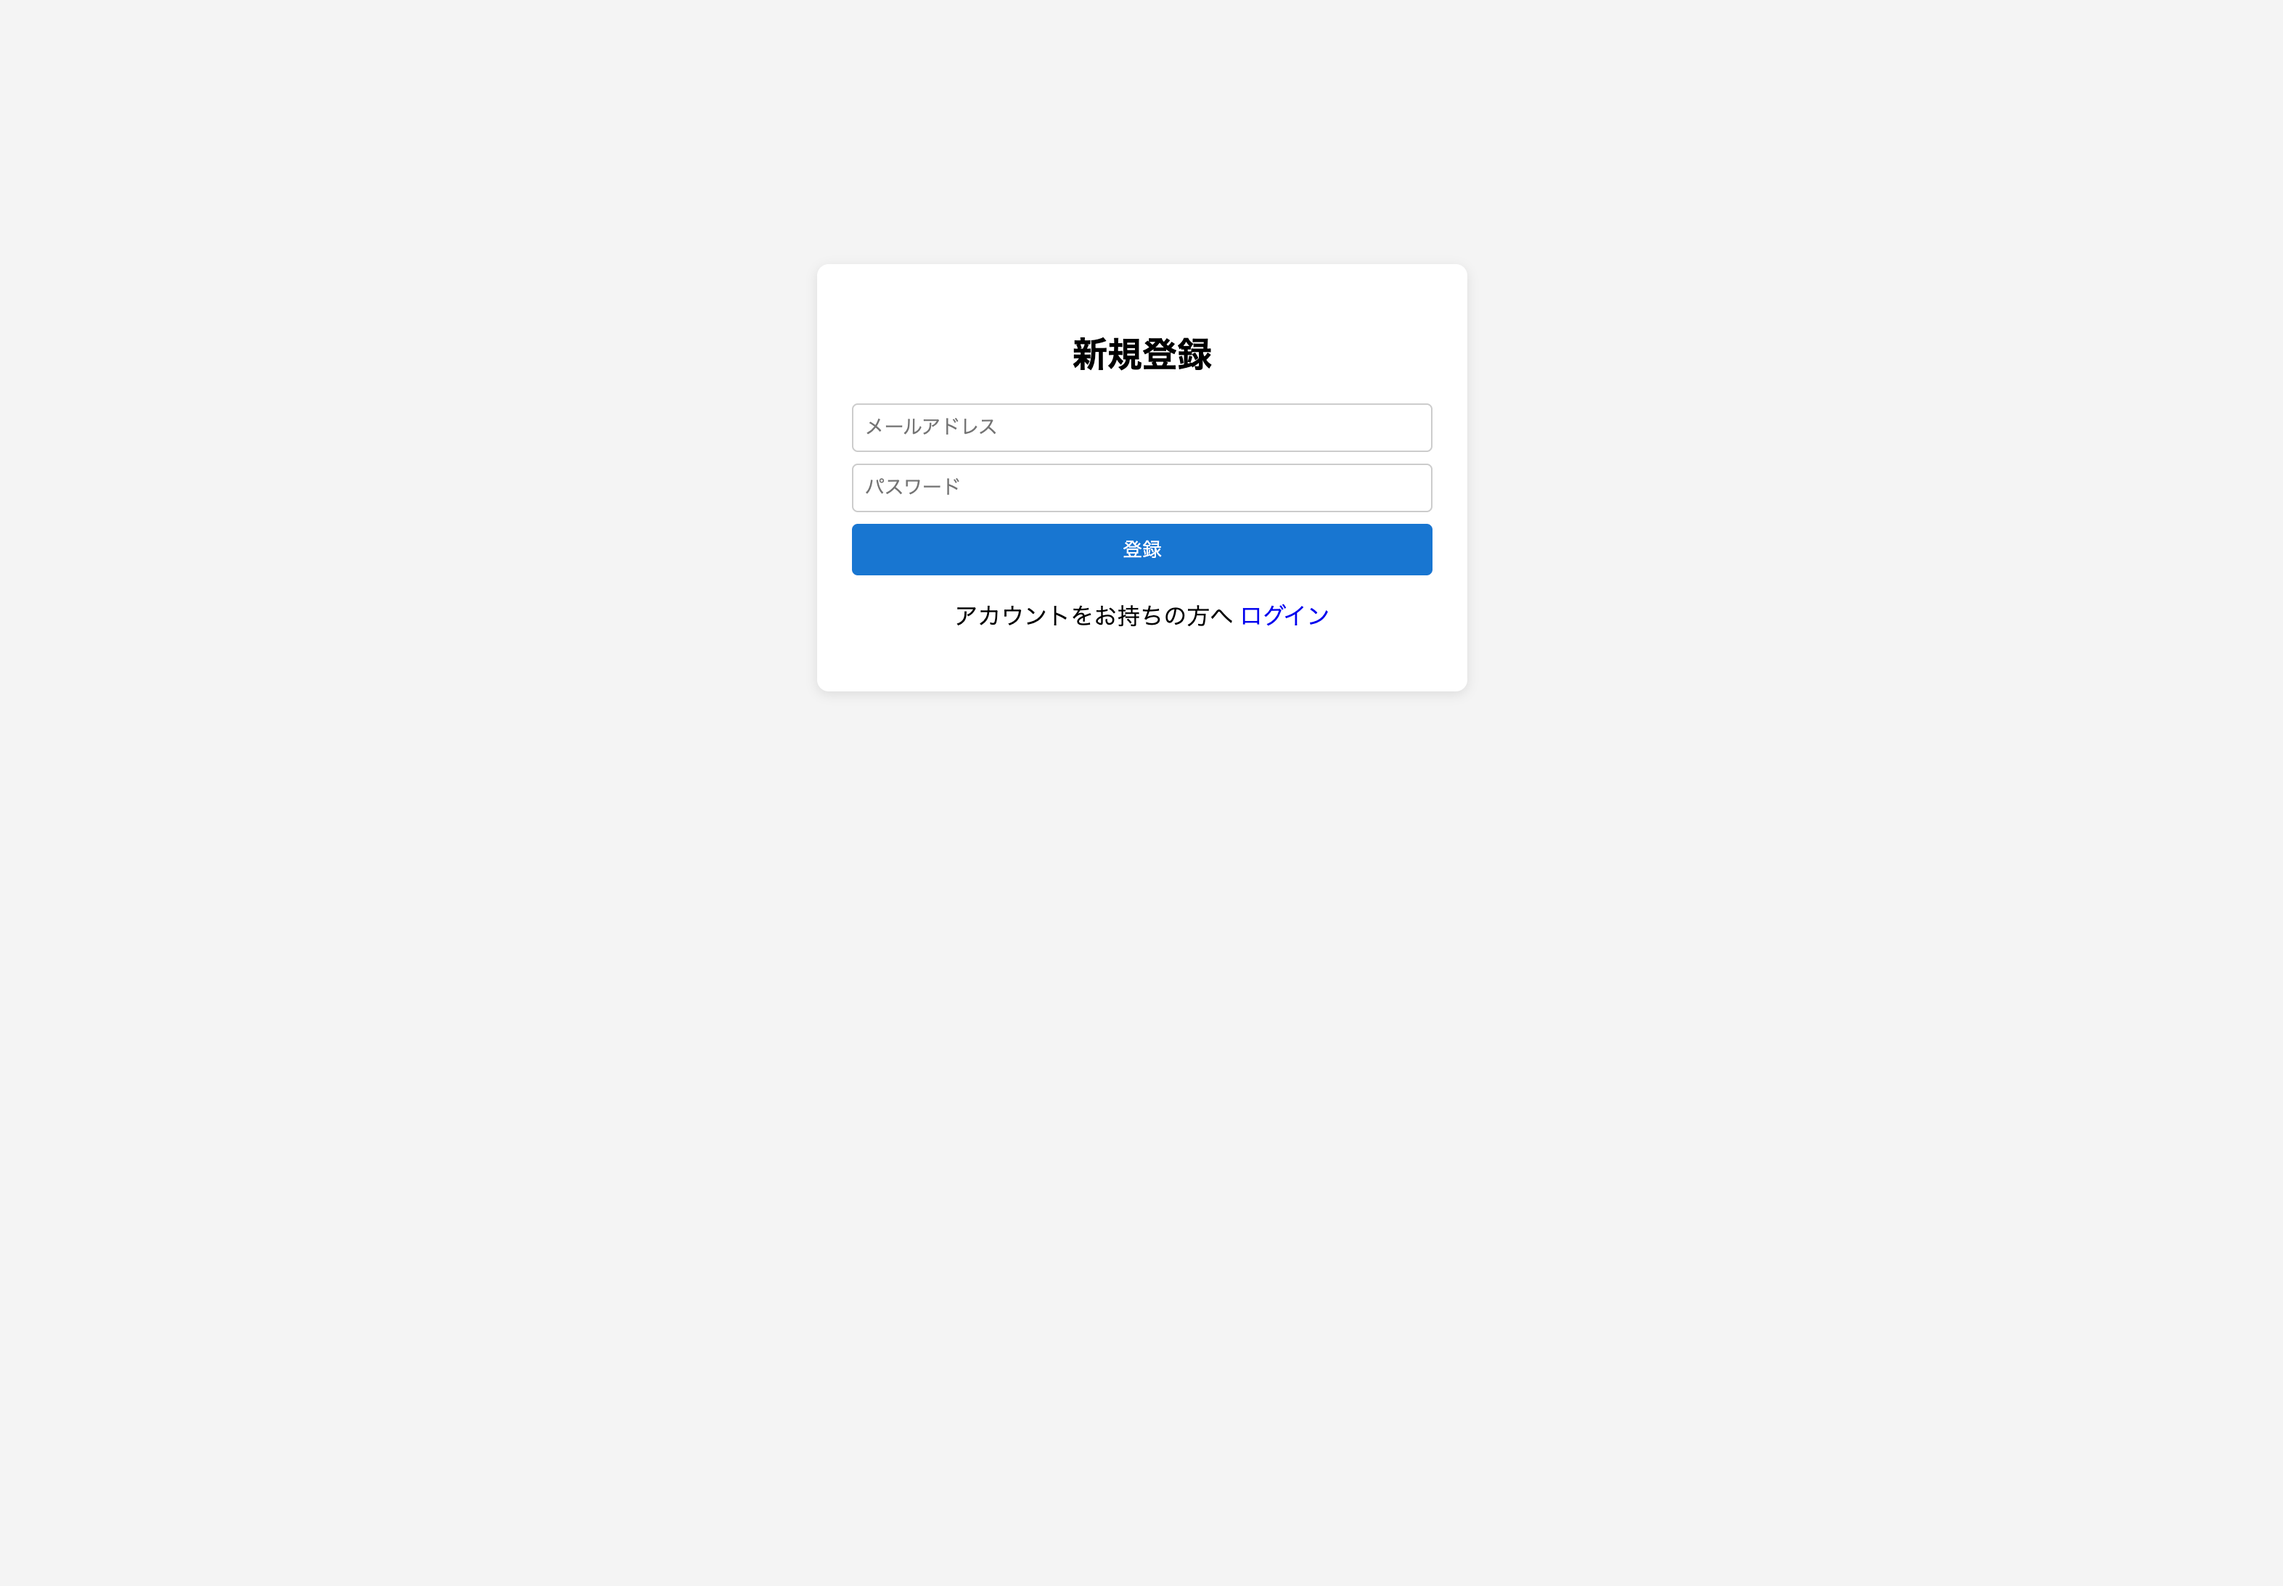
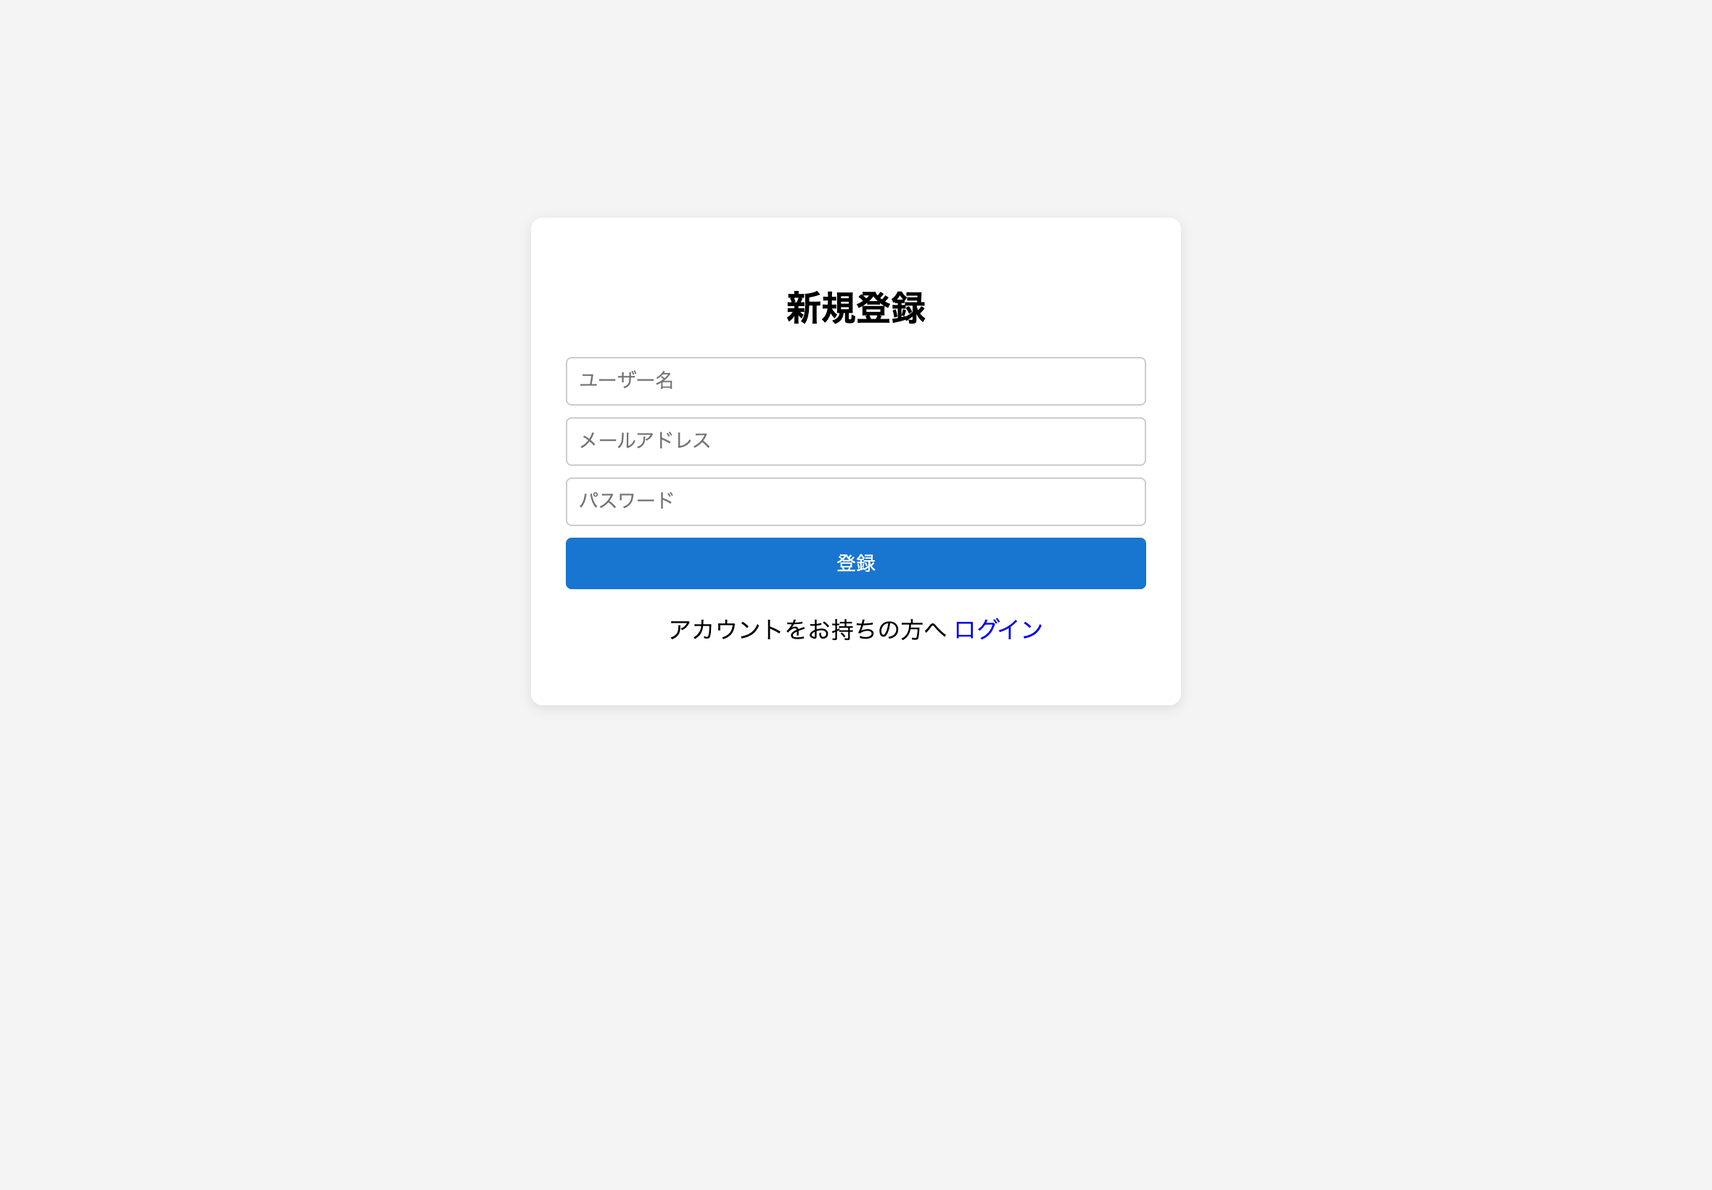
fix readme

Changed region(s): [[0.3403, 0.1866, 0.6496, 0.4043], [0.3093, 0.4043, 0.6805, 0.4976], [0.464, 0.5287, 0.4949, 0.5598]]

diff --git a/README.md b/README.md
@@ -26,7 +26,9 @@ Firebaseは認証とデータ保存のために最低限活用しており、CSS
 ![login](./public/screens/register.png)
 
 ### ToDo登録・更新画面
-![todos](./public/screens/todo-create.png)
+![todos](./public/screens/todo-create_1.png)
+
+![todos](./public/screens/todo-create_2.png)
 
 ---
 
